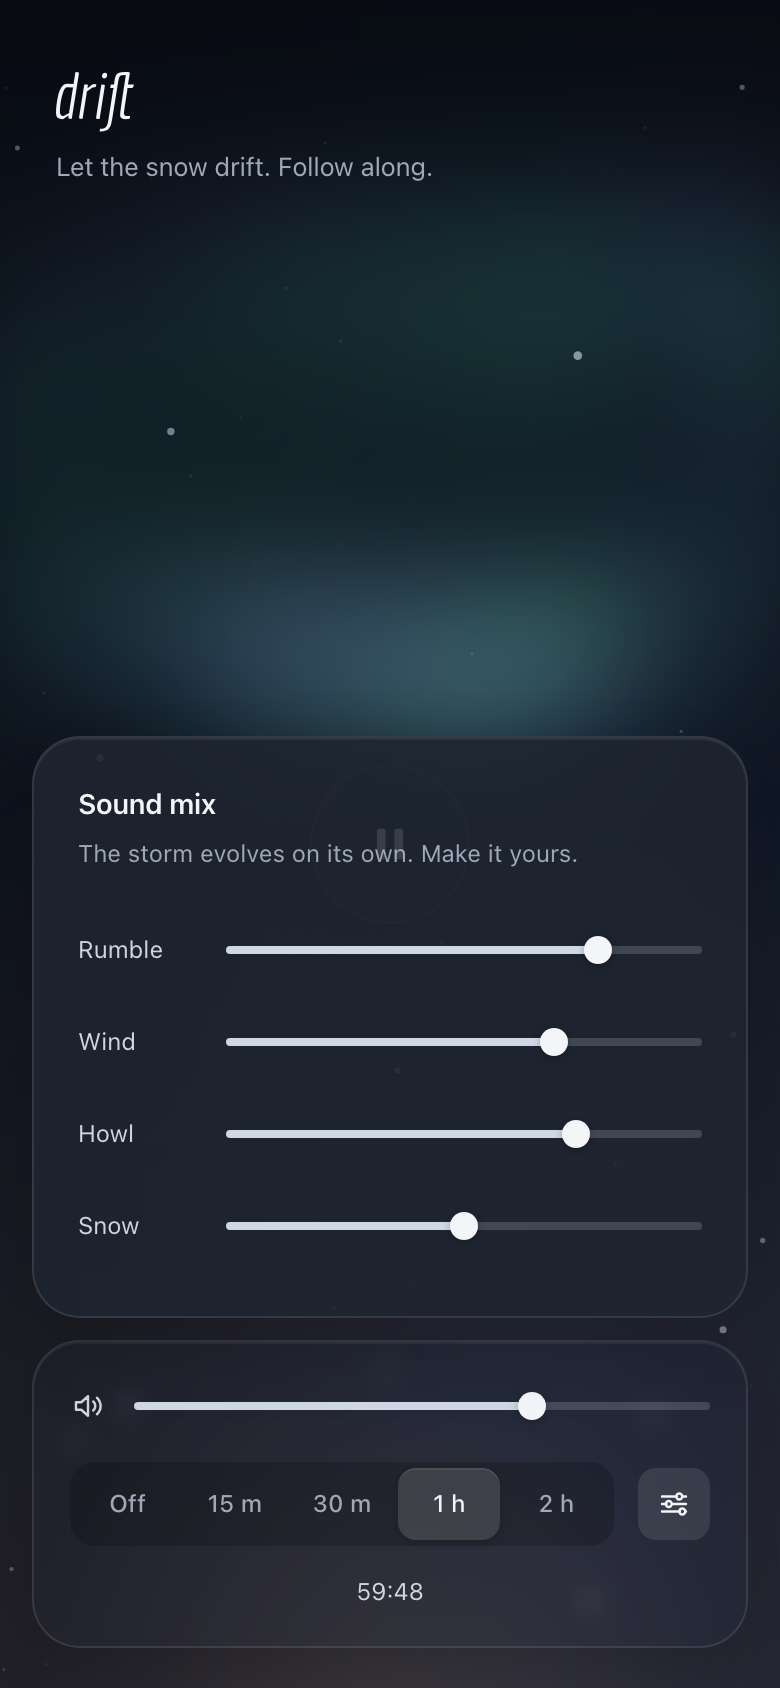
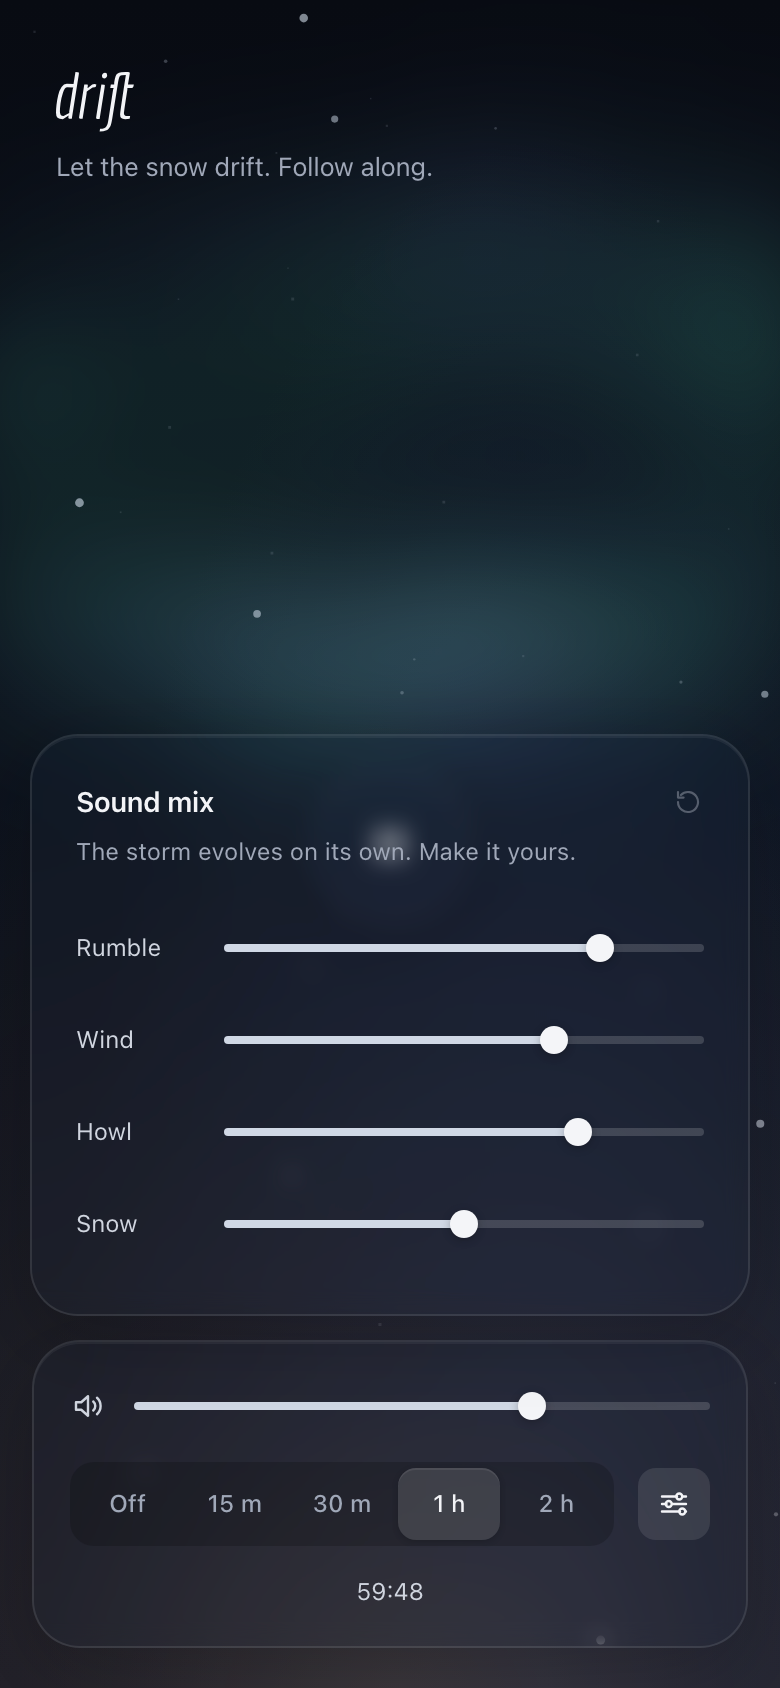
README: phone screenshots, refresh the screenshots
The app is made for phones, so the README shows the phone shots. The
screenshot script clicks the new mixer toggle and plays before the start
shot, since the scene shows only the sky before play.

diff --git a/README.md b/README.md
@@ -5,7 +5,11 @@ and drift off to sleep.
 
 **https://drift.gnass.buzz/**
 
-![drift: snow and northern lights outside a night window](public/screenshots/og.png)
+<p align="center">
+  <img src="public/screenshots/start.png" width="300" alt="drift on a phone: snow and northern lights outside a night window" />
+  &nbsp;&nbsp;
+  <img src="public/screenshots/mixer.png" width="300" alt="drift on a phone, with the sound mixer open" />
+</p>
 
 ## What it does
 
